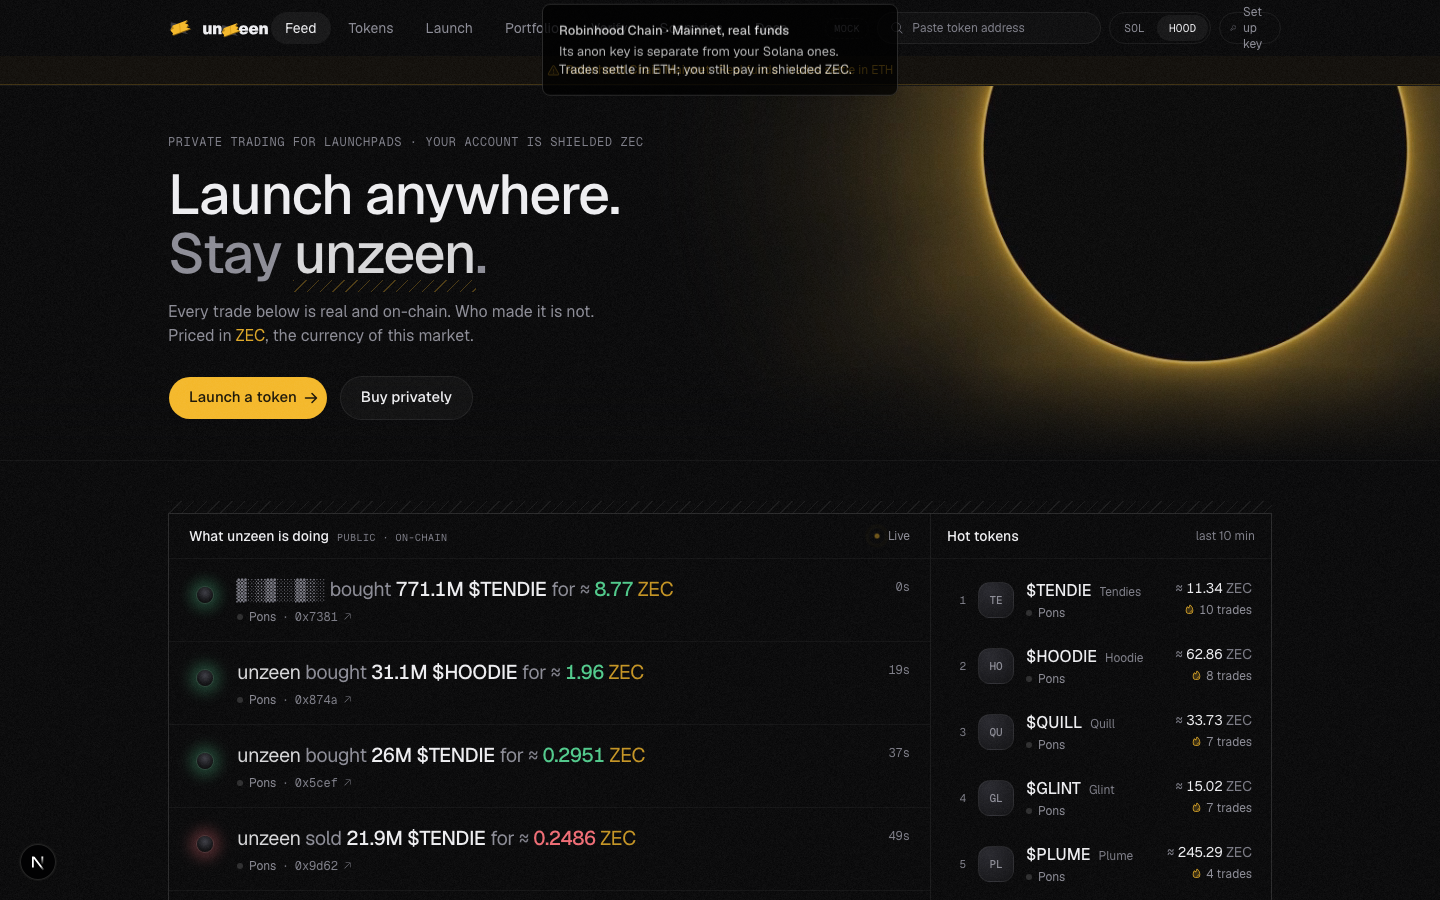
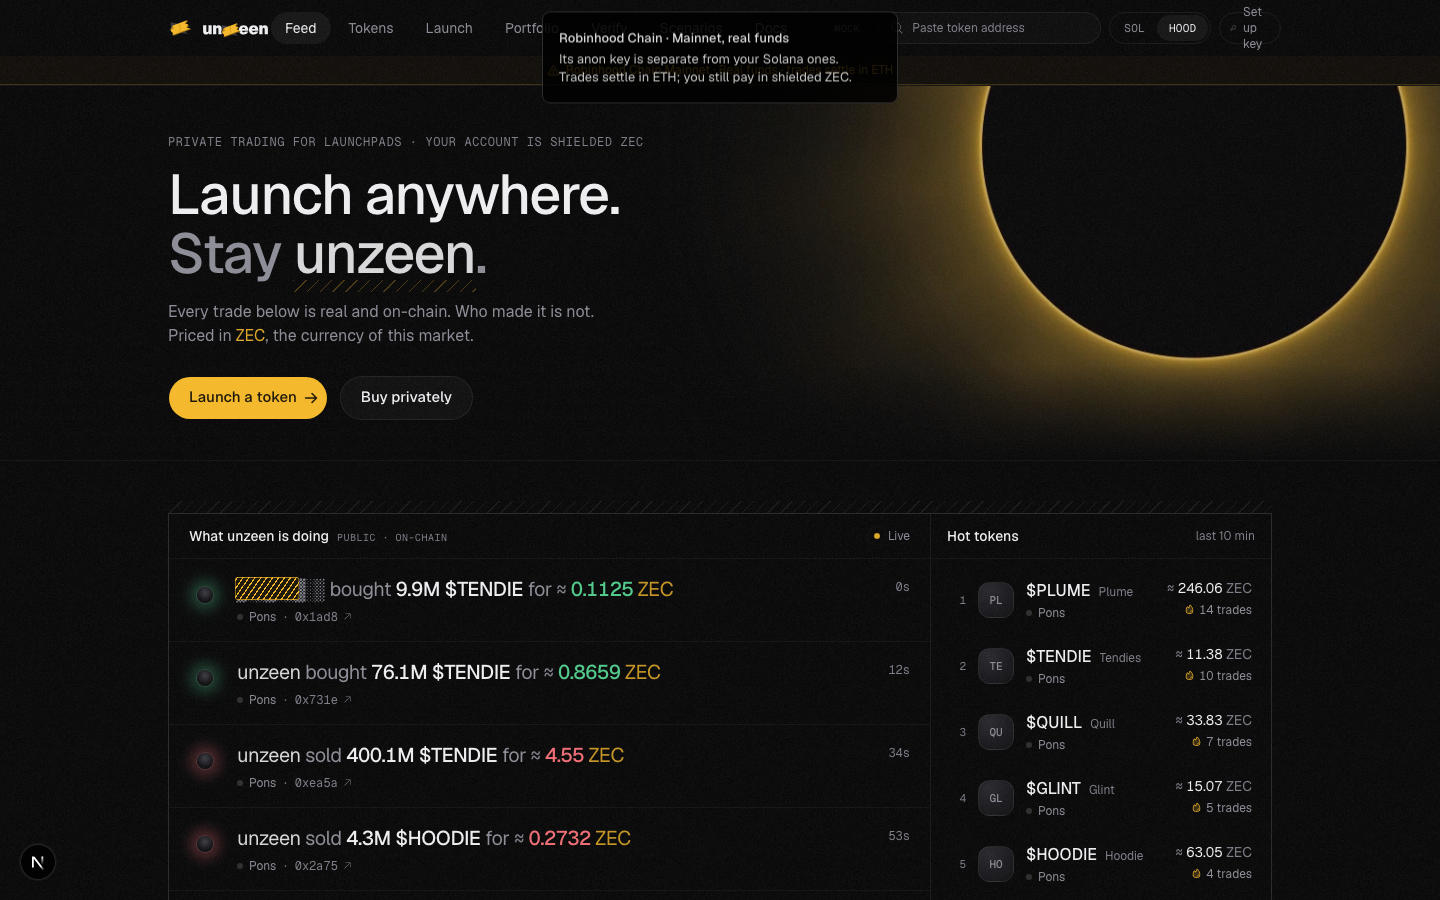
web: hood blocks trades on stale priceTs before sending, refreshed hood Verify fixture, fix flaky withdraw bound in mock test
Claude-Session: https://claude.ai/code/session_01LmbUzhPqR58YuKaDUmZiZH

diff --git a/web/components/trade/trade-panel.tsx b/web/components/trade/trade-panel.tsx
@@ -12,8 +12,10 @@ import { useKeyState } from "@/lib/crypto/session";
 import { formatCompact, formatSol, formatUnits, formatZec, parseUnits, unitsToNumber, VENUE_LABEL, ZEC_DECIMALS } from "@/lib/format";
 import { NETWORK_CONFIG, nativeOf, useNetwork } from "@/lib/network";
 import { nowFee as poolNowFee, resolveExec, useDefaultExec, withExec, type ExecMode, type NowFee } from "@/lib/exec";
-import { lamportsToZatCeil, quoteBuy, quoteBuyZecPair, quoteSell, quoteSellZecPair, sellMirrorsBuy } from "@/lib/trade";
+import { isPriceStale, lamportsToZatCeil, quoteBuy, quoteBuyZecPair, quoteSell, quoteSellZecPair, sellMirrorsBuy } from "@/lib/trade";
 import { useRecentBuys } from "@/hooks/use-recent-buys";
+import { useNow } from "@/hooks/use-now";
+import { usePriceTs } from "@/hooks/use-price-ts";
 import { formatQuote, QUOTE_DECIMALS, quoteAsset, quotePerSol, tokenQuote, zecSpreadBps } from "@/lib/quotes";
 import type { Quote as Pair } from "@/lib/api/types";
 import { isSlippageBps, MAX_SLIPPAGE_BPS, SELL_PRESETS, SLIPPAGE_CHOICES_BPS, updateTradeSettings, useTradeSettings } from "@/lib/trade-settings";
@@ -138,6 +140,10 @@ function OrderForm({ side, token, priceSol, priceQuote }: { side: Side; token: T
   const rate = lastRate(network, side) ?? poolRate;
   // v0.22: 503 stale_price -> the button waits for Retry-After, then the same amount is re-quoted and re-signed.
   const [stale, setStale] = useState<{ left: number; value: string; tries: number } | null>(null);
+  // v0.23: block before sending when the pool's price is missing or older than priceMaxAgeSecs − 20 s.
+  const now = useNow(5000);
+  const priceTs = usePriceTs(token.mint, token.priceTs, hood);
+  const priceOld = hood && now !== null && isPriceStale(priceTs, pool?.chain?.priceMaxAgeSecs, now);
   // v0.13: the pair. ZEC pairs run at 1:1 parity with the pool's spread (no SOL rate); USDC / USD1 pairs use the
   // ZEC/SOL rate like SOL pairs, against the token's SOL-equivalent price.
   const pair = tokenQuote(token);
@@ -192,7 +198,7 @@ function OrderForm({ side, token, priceSol, priceQuote }: { side: Side; token: T
   /** Hood: no quote or a zero limit means no fresh price to sign against; never send 0. */
   const limitOf = (q: typeof quote) => (q === null ? BigInt(0) : "minOut" in q ? q.minOut : q.minZecOut);
   const noPrice = hood && parsed !== null && !inputError && limitOf(quote) === BigInt(0);
-  const waiting = stale !== null || noPrice;
+  const waiting = stale !== null || noPrice || priceOld;
   const canSubmit = !busy && !waiting && parsed !== null && !inputError && !frozen && portfolio !== null;
 
   const setPreset = (v: string) => {
@@ -213,6 +219,11 @@ function OrderForm({ side, token, priceSol, priceQuote }: { side: Side; token: T
     // Invalid input stays in the field with its hint; nothing is signed.
     if (busy || parsed === null || inputError || frozen || portfolio === null) return;
     if (hood && limitOf(quote) === BigInt(0)) return; // "Price updating…": the server would answer 400
+    if (priceOld) {
+      // An automatic retry that meets a still-old price waits another round instead of sending a sure 503.
+      if (tries > 0) setStale({ left: 10, value, tries });
+      return;
+    }
     setBusy(true);
     setError(null);
     const action: SignedAction = withExec(
@@ -406,7 +417,7 @@ function OrderForm({ side, token, priceSol, priceQuote }: { side: Side; token: T
         <p role="status" aria-live="polite" className="flex gap-2 rounded-xl border border-border px-3 py-2.5 text-xs text-pretty text-muted-foreground">
           <Info size={14} weight="light" className="mt-px shrink-0" aria-hidden />
           <span>
-            {stale ? (
+            {stale && !priceOld ? (
               <>
                 Price updating… The pool needs a fresh price for ${token.symbol} before it trades. Nothing was held. Retrying in{" "}
                 <span className="tabular text-foreground">{staleLeft}s</span>.{" "}
@@ -415,7 +426,10 @@ function OrderForm({ side, token, priceSol, priceQuote }: { side: Side; token: T
                 </button>
               </>
             ) : (
-              <>Price updating… There is no fresh price for ${token.symbol} to set your limit against yet{maxAge ? ` (prices older than ${Math.round(maxAge / 60)} min aren't traded on)` : ""}.</>
+              <>
+                Price updating… There is no fresh pool price for ${token.symbol} to set your limit against yet
+                {maxAge ? ` (prices older than ${Math.round(maxAge / 60)} min aren't traded on)` : ""}. Buy and sell unlock by themselves when it arrives.
+              </>
             )}
           </span>
         </p>

diff --git a/web/lib/api/mock-hood.ts b/web/lib/api/mock-hood.ts
@@ -99,7 +99,7 @@ interface HoodToken {
   progress: number;
   /** v0.22: when the pool last priced this token (unix ms); older than PRICE_MAX_AGE_S -> 503 stale_price. */
   priceAt: number;
-  /** Mock only: after a stale_price answer the pool "reprices" the token here, inside the 60 s Retry-After. */
+  /** Mock only: when the stale token gets its next price (see freshen). */
   refreshAt?: number;
 }
 
@@ -214,6 +214,20 @@ export function createHoodMock(host: HoodHost): HoodMock {
     return tokens.find((t) => t.token.mint.toLowerCase() === mint.toLowerCase()) ?? null;
   };
 
+  /**
+   * The pool's price timer (mock): a token whose price went stale is repriced ~45 s after anyone looks at it,
+   * inside the 60 s Retry-After. Mirrors core: priceTs = price_at rounded down to 10 s, absent without a price.
+   */
+  function freshen(t: HoodToken) {
+    const now = Date.now();
+    if (t.refreshAt !== undefined && now >= t.refreshAt) [t.priceAt, t.refreshAt] = [t.refreshAt, undefined];
+    const stale = !(t.price > 0) || now - t.priceAt > PRICE_MAX_AGE_S * 1000;
+    if (stale) t.refreshAt ??= now + 45_000;
+    if (t.price > 0) t.token.priceTs = Math.floor(t.priceAt / 10_000) * 10_000;
+    else delete t.token.priceTs;
+    return stale;
+  }
+
   function settle(a: HoodAction) {
     if (a.status.status !== "queued") return;
     const acc = host.account(a.pubkey);
@@ -296,9 +310,10 @@ export function createHoodMock(host: HoodHost): HoodMock {
       };
     },
     feed: (limit) => history.slice(0, Math.min(limit, 200)),
-    tokens: () => tokens.filter((t) => t.heat > 0).map((t) => ({ ...t.token })),
+    tokens: () => tokens.filter((t) => t.heat > 0).map((t) => (freshen(t), { ...t.token })),
     token(mint) {
       const t = find(mint);
+      if (t) freshen(t);
       return t ? { ...t.token, trades: history.filter((e) => e.mint === t.token.mint).slice(0, 50) } : null;
     },
     trades(mint, filter, limit) {
@@ -383,9 +398,7 @@ export function createHoodMock(host: HoodHost): HoodMock {
         if (t.token.status === "graduated") throw new ApiError("graduated", "token left the bonding curve", 409);
         // v0.22: no zero price limit on this origin, and no trade on a stale pool price (both before any hold).
         amountOf(x.op === "buy" ? x.minOut : x.minZecOut, x.op === "buy" ? "minOut" : "minZecOut");
-        if (t.refreshAt !== undefined && Date.now() >= t.refreshAt) [t.priceAt, t.refreshAt] = [t.refreshAt, undefined];
-        if (!(t.price > 0) || Date.now() - t.priceAt > PRICE_MAX_AGE_S * 1000) {
-          t.refreshAt ??= Date.now() + 45_000;
+        if (freshen(t)) {
           throw new ApiError("stale_price", "no fresh pool price for this token", 503, undefined, 60);
         }
         if (x.op === "buy") {

diff --git a/web/lib/api/mock-hood.test.ts b/web/lib/api/mock-hood.test.ts
@@ -115,6 +115,16 @@ describe("mock v0.18: Robinhood Chain origin", () => {
     await expect(call("POST", "/api/actions", { op: "buy", venue: "pons", mint: t.mint, zecIn: "10000000", minOut: "1" })).resolves.toMatchObject({ status: "queued" });
   });
 
+  it("v0.23: priceTs is the pool's price time rounded down to 10 s, and a stale token is repriced within a minute", async () => {
+    vi.setSystemTime(vi.getRealSystemTime() + 60 * 60_000); // an hour on: every price is old
+    let [t] = (await call<TokenListItem[]>("GET", "/api/tokens")).filter((x) => x.status === "curve");
+    expect(t.priceTs! % 10_000).toBe(0);
+    expect(Date.now() - t.priceTs! > 300_000).toBe(true);
+    vi.setSystemTime(Date.now() + 50_000);
+    [t] = (await call<TokenListItem[]>("GET", "/api/tokens")).filter((x) => x.mint === t.mint);
+    expect(Date.now() - t.priceTs!).toBeLessThan(20_000);
+  });
+
   it("orders and scenarios are not on this chain yet", async () => {
     await expect(call("POST", "/api/actions", { op: "order_create", venue: "pumpfun", mint: "0x5aAeb6053F3E94C9b9A09f33669435E7Ef1BeAed", kind: "limit_buy", amount: "1000000", triggerPriceSol: "1" })).rejects.toMatchObject({ code: "bad_request" });
   });

diff --git a/web/lib/trade-price-ts.test.ts b/web/lib/trade-price-ts.test.ts
@@ -1,0 +1,21 @@
+import { describe, expect, it } from "vitest";
+import { isPriceStale, PRICE_SLACK_S } from "./trade";
+
+describe("v0.23 isPriceStale (hood: block buy / sell before a sure 503 stale_price)", () => {
+  const now = 1_791_763_200_000;
+  it("no priceTs = no price = stale", () => {
+    expect(isPriceStale(undefined, 300, now)).toBe(true);
+    expect(isPriceStale(Number.NaN, 300, now)).toBe(true);
+  });
+  it("older than priceMaxAgeSecs − 20 s is stale (rounding and clock skew margin)", () => {
+    expect(isPriceStale(now - (300 - PRICE_SLACK_S) * 1000, 300, now)).toBe(false);
+    expect(isPriceStale(now - (300 - PRICE_SLACK_S) * 1000 - 1, 300, now)).toBe(true);
+    expect(isPriceStale(now - 10_000, 300, now)).toBe(false);
+  });
+  it("without the pool field the server default (300 s) applies", () => {
+    expect(isPriceStale(now - 279_000, undefined, now)).toBe(false);
+    expect(isPriceStale(now - 281_000, undefined, now)).toBe(true);
+    expect(isPriceStale(now - 100_000, 120, now)).toBe(false);
+    expect(isPriceStale(now - 101_000, 120, now)).toBe(true);
+  });
+});

diff --git a/web/hooks/use-price-ts.ts b/web/hooks/use-price-ts.ts
@@ -1,0 +1,32 @@
+"use client";
+
+import { useEffect, useState } from "react";
+import { api } from "@/lib/api/client";
+
+/** Fixed interval: the same public GET for everyone on the token page, whatever they are about to do. */
+const POLL_MS = 30_000;
+
+/**
+ * v0.23 (hood): the pool's latest Token.priceTs for `mint`, re-read from the public GET /api/tokens/:mint on a
+ * fixed timer while `enabled`. Starts from the value the page loaded with.
+ */
+export function usePriceTs(mint: string, initial: number | undefined, enabled: boolean): number | undefined {
+  const [ts, setTs] = useState(initial);
+  useEffect(() => {
+    if (!enabled) return;
+    let alive = true;
+    const id = setInterval(async () => {
+      try {
+        const t = await api.getToken(mint);
+        if (alive && t && "mint" in t) setTs(t.priceTs);
+      } catch {
+        /* keep the last value: a failed read never unlocks trading */
+      }
+    }, POLL_MS);
+    return () => {
+      alive = false;
+      clearInterval(id);
+    };
+  }, [mint, enabled]);
+  return enabled ? ts : initial;
+}

diff --git a/web/lib/api/mock.test.ts b/web/lib/api/mock.test.ts
@@ -148,7 +148,11 @@ describe("mock: actions from the balance", () => {
       expect(BigInt(p.amount).toString().replace(/0+$/, "").length).toBeLessThanOrEqual(3);
     }
     expect(sent < BigInt(total)).toBe(true);
-    expect(sent * BigInt(1000) >= BigInt(total) * BigInt(975)).toBe(true); // at most ~2 % + rounding
+    // Shaved 0.5–2 %, then every part rounded down to 3 significant digits, which costs up to 1 % more of that
+    // part (e.g. 100999… -> 100000…). So sent >= total × 0.98 × 0.99 and sent <= total × 0.995. (The old bound,
+    // 97.5 %, failed whenever a large shave met a part starting with "100".)
+    expect(sent * BigInt(10_000) >= BigInt(total) * BigInt(9702)).toBe(true);
+    expect(sent * BigInt(1000) <= BigInt(total) * BigInt(995)).toBe(true);
     const h = mid.holdings.find((x) => x.mint === t.mint)!;
     expect(h).toMatchObject({ held: sent.toString(), amount: (BigInt(total) - sent).toString() });
     expect(BigInt(mid.zecBalance) < BigInt(after.zecBalance)).toBe(true); // gas paid in ZEC

diff --git a/web/lib/trade.ts b/web/lib/trade.ts
@@ -197,3 +197,16 @@ export function amountsMatch(a: bigint, b: bigint, tolerance = 0.02): boolean {
   const max = a > b ? a : b;
   return diff * BigInt(10_000) <= max * BigInt(Math.round(tolerance * 10_000));
 }
+
+// ---- v0.23: fresh pool price (hood) ----
+
+/** Server default of PoolInfo.chain.priceMaxAgeSecs. */
+export const PRICE_MAX_AGE_DEFAULT_S = 300;
+/** Margin for the 10 s rounding of priceTs and clock skew (docs/API.md v0.23: 10–20 s). */
+export const PRICE_SLACK_S = 20;
+
+/** True when the server would answer 503 stale_price: no priceTs, or older than maxAge − slack. */
+export function isPriceStale(priceTs: number | undefined, maxAgeSecs: number | undefined, now: number): boolean {
+  if (priceTs === undefined || !Number.isFinite(priceTs)) return true;
+  return now - priceTs > ((maxAgeSecs ?? PRICE_MAX_AGE_DEFAULT_S) - PRICE_SLACK_S) * 1000;
+}

diff --git a/web/lib/verify/verify-proof-evm.test.ts b/web/lib/verify/verify-proof-evm.test.ts
@@ -23,7 +23,7 @@ interface Mjs {
 }
 const load = async () => (await import(/* @vite-ignore */ path.resolve(__dirname, "../../public/verify/verify-proof.mjs"))) as Mjs;
 
-const OPERATOR = "0x97a23cd8Cec339c6b179aC798187B430883A0776"; // mock hood operator, TEST ONLY
+const OPERATOR = "0x7c4DFd22C39cd4CaeBC4A8b0297075f519524330"; // mock hood operator, TEST ONLY
 const snap = hood as unknown as VerifySnapshot;
 const file = (s: unknown) => ({ anonPubkey: "11111111111111111111111111111111", snapshot: s, proof: { snapshotId: snap.id, proofs: [], truncated: false } });
[1 lines of base64/hex data omitted]

diff --git a/web/lib/verify/pinned.ts b/web/lib/verify/pinned.ts
@@ -22,7 +22,7 @@ const PINNED: Record<Network, string> = {
  * TEST ONLY: attestation address of the recorded hood snapshot the mock serves (lib/verify/testdata/
  * hood-snapshot.json, from the adapters hood end-to-end run).
  */
-const MOCK_HOOD_OPERATOR = process.env.NEXT_PUBLIC_HOOD === "1" ? "0x97a23cd8Cec339c6b179aC798187B430883A0776" : "";
+const MOCK_HOOD_OPERATOR = process.env.NEXT_PUBLIC_HOOD === "1" ? "0x7c4DFd22C39cd4CaeBC4A8b0297075f519524330" : "";
 
 /** Pinned operator key of a network, or null when this build has none. */
 export function pinnedOperator(n: Network): string | null {

diff --git a/web/lib/api/types.ts b/web/lib/api/types.ts
@@ -87,6 +87,8 @@ export interface Token {
   status: "curve" | "graduated";
   decimals: number;
   priceSol: DecimalString; // SOL per 1 whole token (SOL equivalent for non-SOL pairs, may be "0")
+  /** v0.23: when the pool last recorded the price, unix ms rounded down to 10 s; absent = no price. */
+  priceTs?: number;
   marketCapSol: DecimalString; // SOL equivalent for non-SOL pairs, may be "0"
   createdAt: number; // unix ms
   /** v0.13: the curve's pair ("SOL" for every older token; treat absent as "SOL"). */
